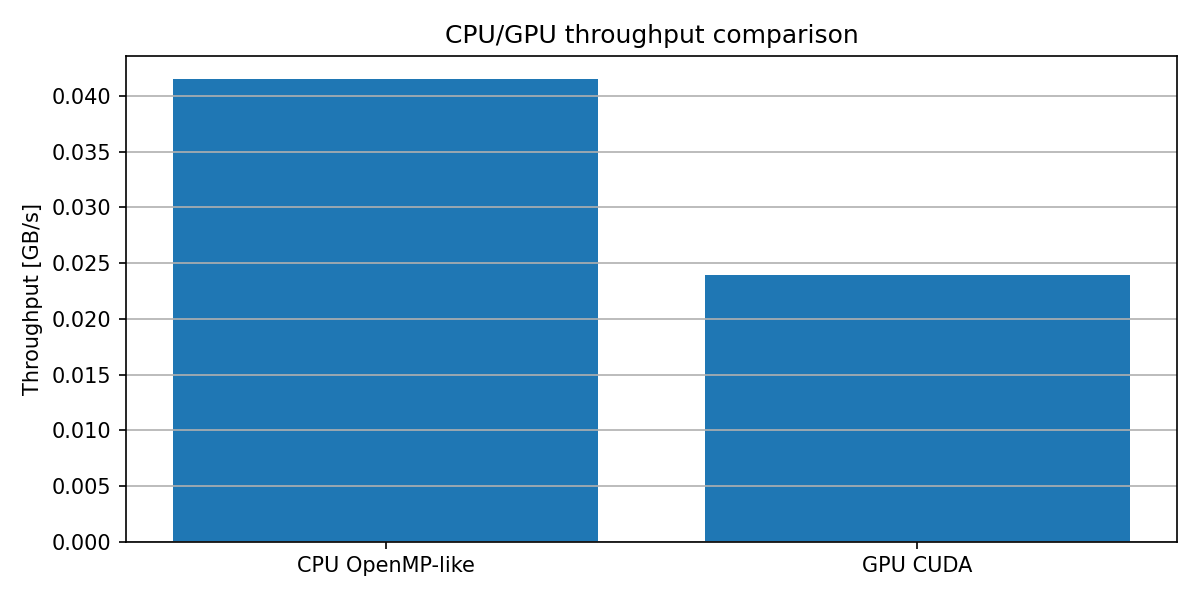
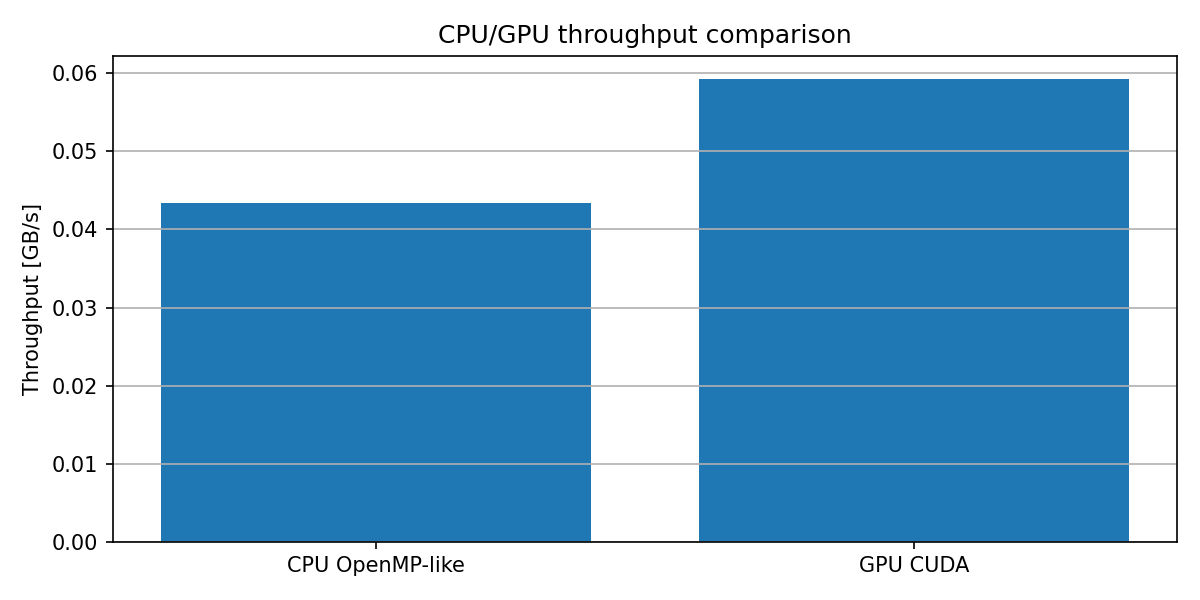
Typing error fix

diff --git a/reports/benchmark_report.md b/reports/benchmark_report.md
@@ -2,15 +2,15 @@
 
 - Input bytes: 15562516
 - Input size GB: 0.015563
-- File read time s: 0.022538
-- File read throughput GB/s: 0.690501
+- File read time s: 0.024194
+- File read throughput GB/s: 0.643247
 
 ## CPU/GPU comparison
 
 | Technology | Mode | Time s | Throughput GB/s | Tokens |
 |---|---:|---:|---:|---:|
-| CPU OpenMP-like | 4 workers | 0.374953 | 0.041505 | 1649983 |
-| GPU CUDA | cpu-fallback | 0.649446 | 0.023963 | 1649983 |
+| CPU OpenMP-like | 4 workers | 0.358491 | 0.043411 | 1649983 |
+| GPU CUDA | cuda | 0.262662 | 0.059249 | 1649983 |
 
 ## Top words
 